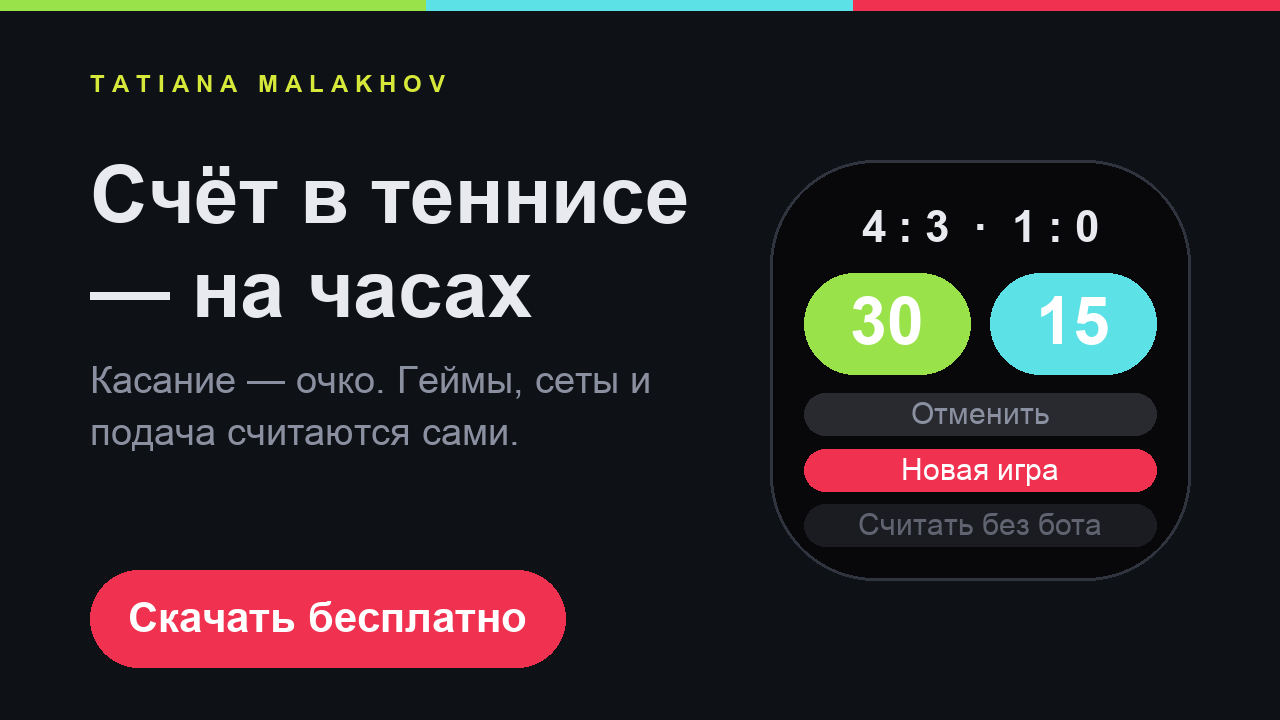
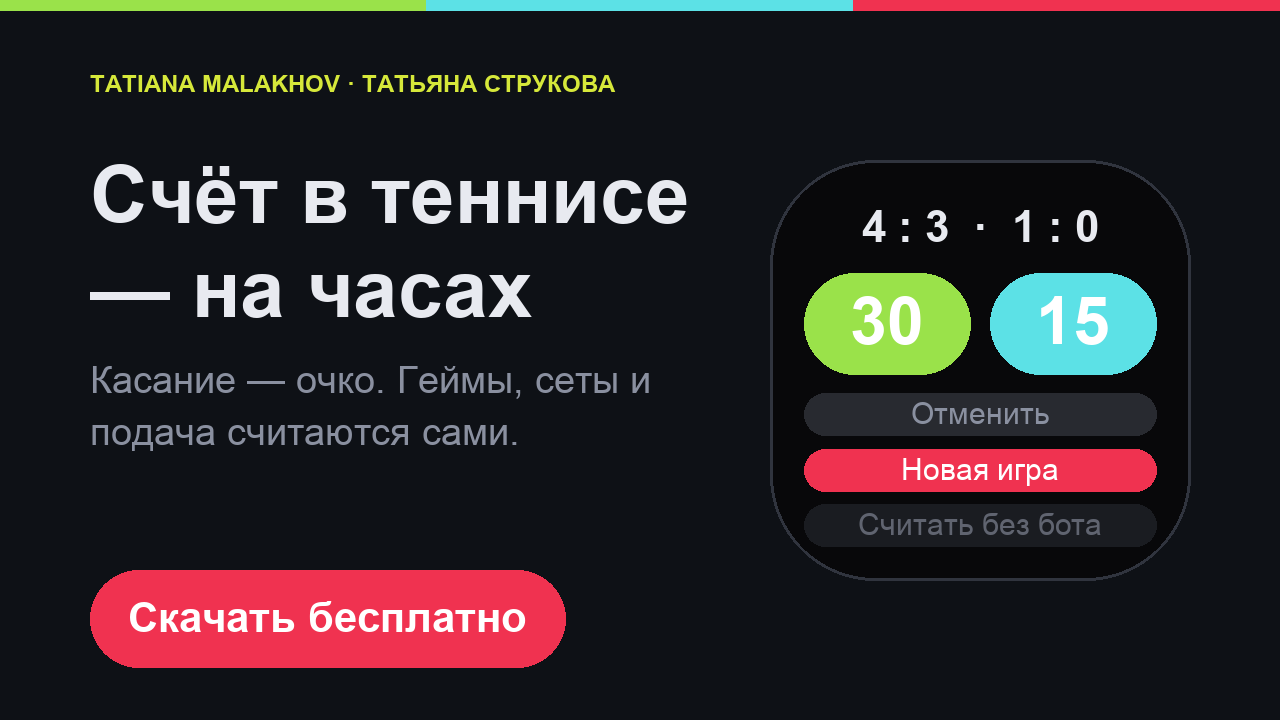
Двойная подпись на русских карточках
Люди из рабочего контура знают её как Струкову, а публикуется она как
Malakhov — и не связывают одно с другим. На русских карточках теперь
оба имени; на английской и французской двойная подпись только путала бы.

Вразрядку раскладывается только короткое имя: двойное с промежутками
расползается на всю ширину и перестаёт читаться как имя.

Changed region(s): [[0.0625, 0.0917, 0.5, 0.1528]]

diff --git a/tools/make_card.py b/tools/make_card.py
@@ -196,9 +196,14 @@ def card(title: str, subtitle: str = "", note: str = "",
     # приложение»: у него есть человек, и человек хочет, чтобы его имя
     # читали раньше, чем описание.
     if author:
+        # Вразрядку — только короткое имя. Двойная подпись «как знают
+        # там и как знают здесь» с промежутками расползается на всю
+        # ширину и перестаёт читаться как имя.
         sign = font("Arial Bold.ttf", 28 if tall else 24)
-        draw.text((margin, 110 if tall else 70),
-                  " ".join(author.upper()), font=sign, fill=ACCENT)
+        text = author.upper()
+        if len(text) <= 22:
+            text = " ".join(text)
+        draw.text((margin, 110 if tall else 70), text, font=sign, fill=ACCENT)
 
     if tall:
         width = size[0] - margin * 2
